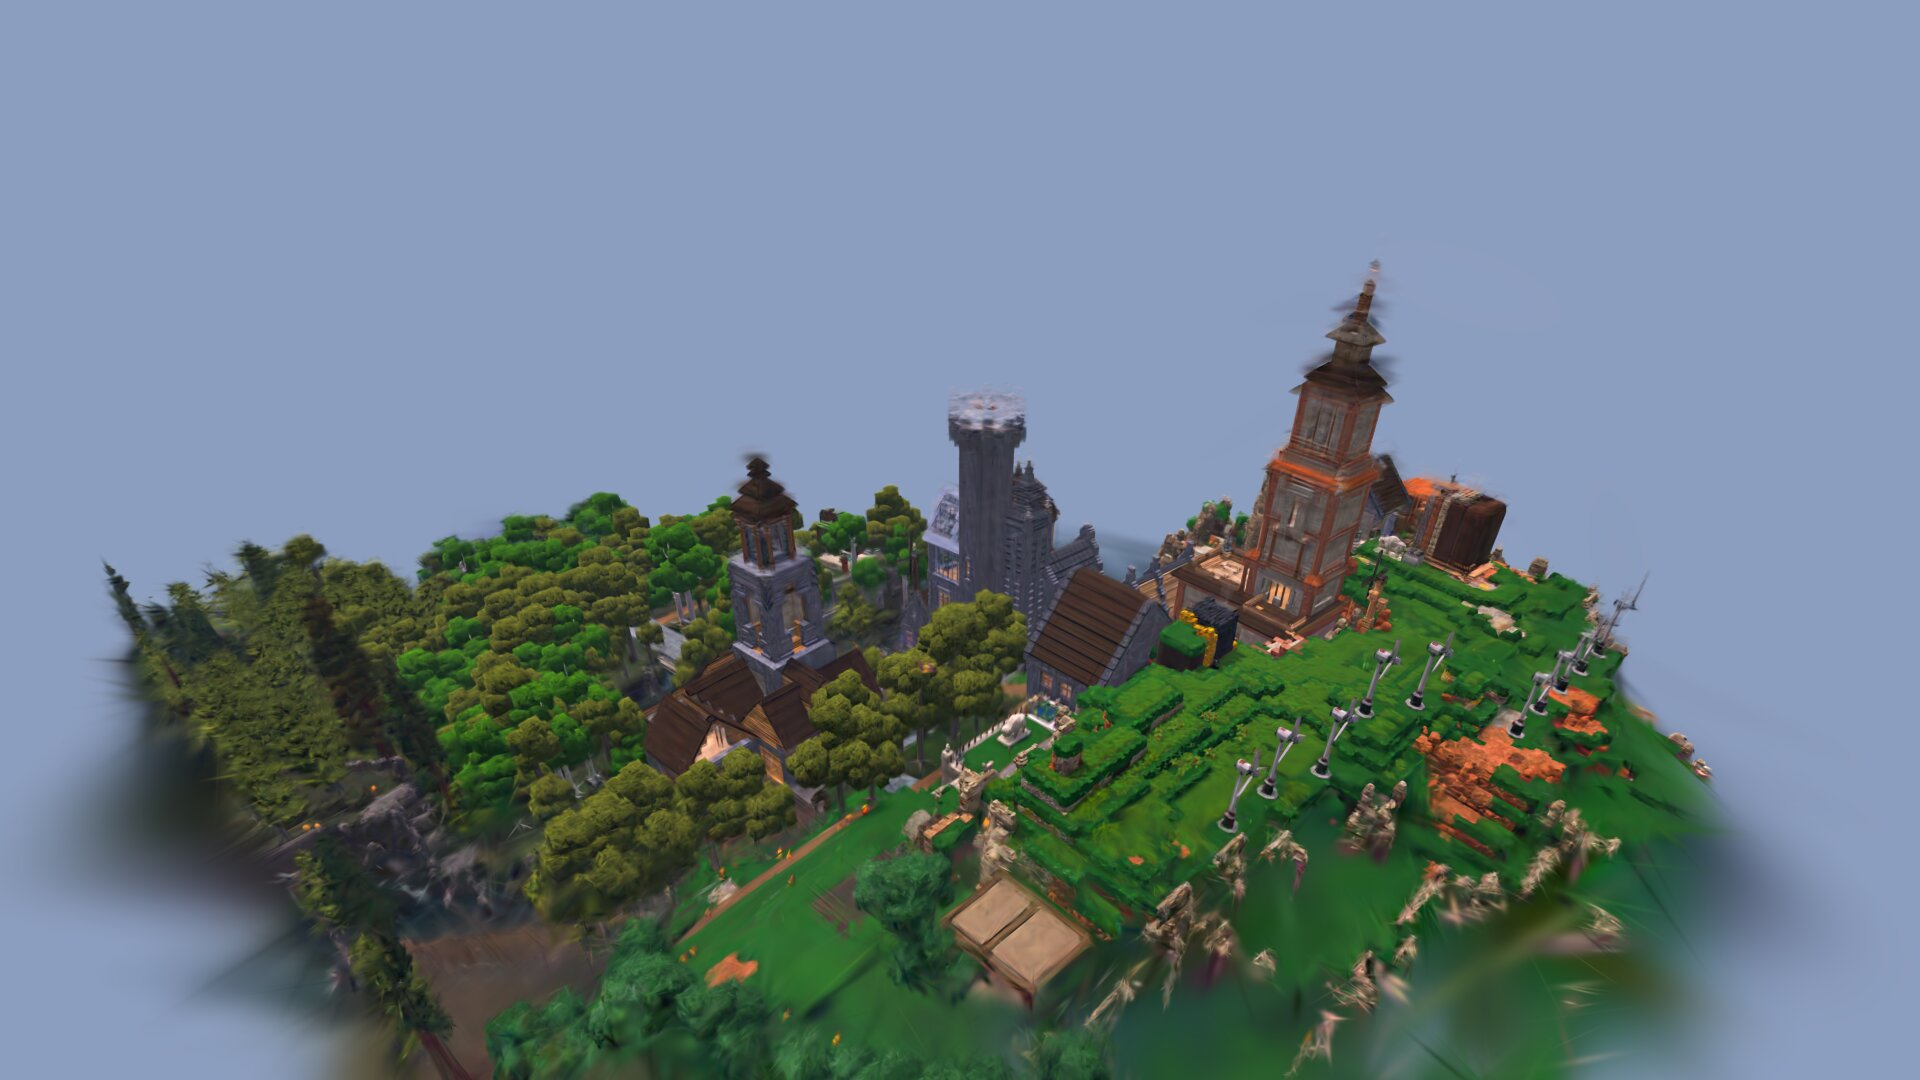
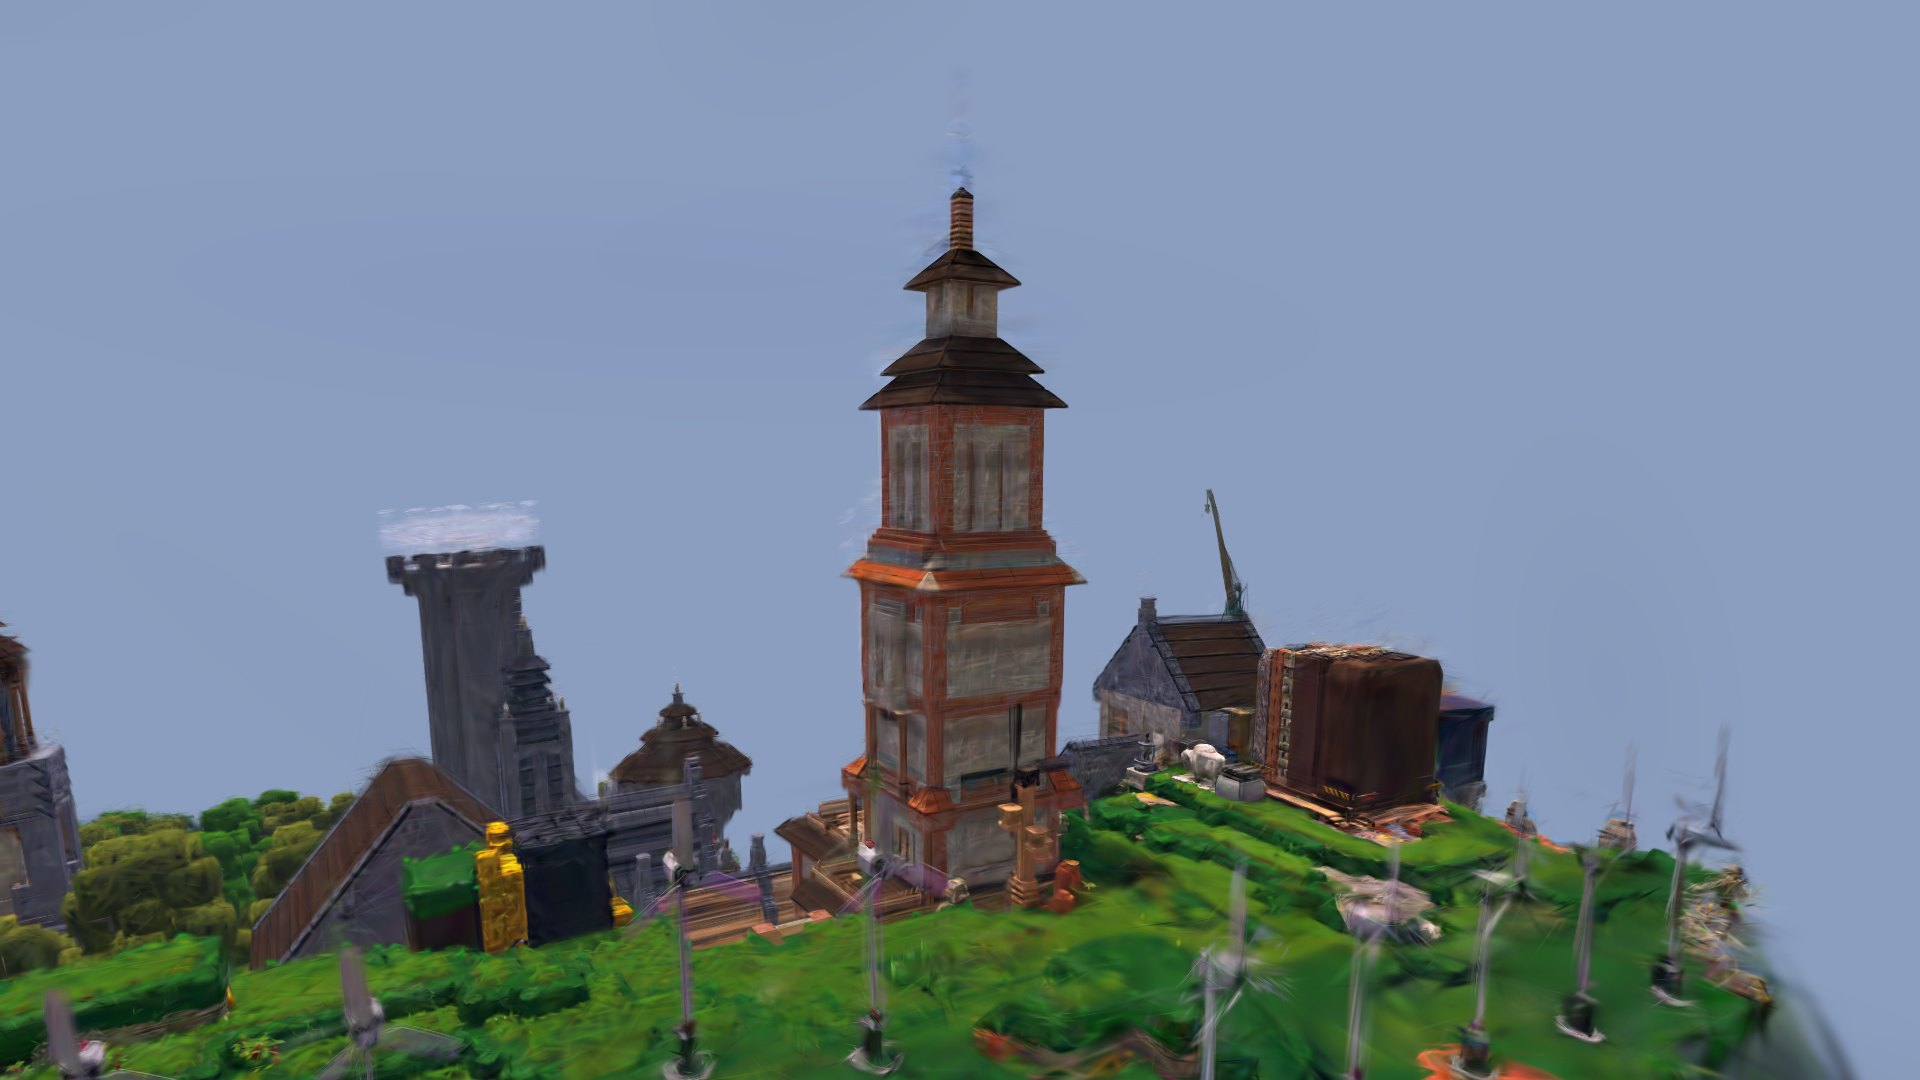
feat(frontend): open the castle on its tallest tower, upright and fully in view (COI-2248) (#425)

diff --git a/frontend/src/lib/splatViewer.ts b/frontend/src/lib/splatViewer.ts
@@ -21,16 +21,25 @@ export interface ViewSpec {
   fov: number
   distanceRange: [number, number]
   farClip: number
+  /**
+   * A capture arrives a few degrees off true up, since the reconstruction picks its own
+   * frame. This turns it about a horizontal `axis` through the origin by `degrees`, so a
+   * vertical build reads vertical. Measured per capture, by triangulating a tower's axis.
+   */
+  level?: { axis: [number, number, number]; degrees: number }
 }
 
-// The castle is about 150 blocks across.
+// The castle is about 150 blocks across. It opens on its tallest tower (COI-2248), the
+// clock tower, centred and 62 blocks away at a 3 degree rise, from the south-south-east.
+// The tower leaned 4.8 degrees in the capture, so `level` stands it up.
 export const CASTLE_VIEW: ViewSpec = {
   name: "castle",
-  target: [0, 10, 0],
-  reference: [90, 70, -90],
+  target: [-21.9, 27, -32.5],
+  reference: [9.1, 30.2, -86.1],
   fov: 50,
   distanceRange: [15, 400],
   farClip: 2000,
+  level: { axis: [0.7, 0, -0.71], degrees: 4.84 },
 }
 
 const ORBIT_SPEED = 0.15 // radians per second
@@ -93,6 +102,11 @@ export async function startViewer(
     const splat = new pc.Entity(view.name)
     // 3DGS is y-down, so a capture arrives upside down without this turn. v2 is y-down too.
     splat.setLocalEulerAngles(0, 0, 180)
+    if (view.level) {
+      const [x, y, z] = view.level.axis
+      // The tilt is about a world axis, so it goes on after the flip.
+      splat.setLocalRotation(new pc.Quat().setFromAxisAngle(new pc.Vec3(x, y, z).normalize(), view.level.degrees).mul(splat.getLocalRotation()))
+    }
     splat.addComponent("gsplat", { asset })
     app.root.addChild(splat)
   } catch (error) {

diff --git a/docs/frontend/castle-splat.md b/docs/frontend/castle-splat.md
@@ -20,8 +20,9 @@ Not in this repo, which caps files at 2 MB. They are on the files host, under
 * `eco-cycle-14-castle-flythrough-1.mp4` (55 s, 27 MB) and `-2.mp4` (30 s, 25 MB),
   each with a `-poster.jpg` beside it (`teable:coilyco/infrastructure#8605`).
 
-The still on the stage, `frontend/src/assets/castle-v2-hero.jpg` (1920x1080, 177 KB),
-is in the repo. So is the link-preview card art, `og-art/castle.jpg`.
+The still on the stage, `frontend/src/assets/castle-v2-hero.jpg` (1920x1080, 154 KB),
+is in the repo, rendered from the page's own start view, so the handoff to the live
+view does not jump. So is the link-preview card art, `og-art/castle.jpg`.
 
 ## What a person sees
 
@@ -46,8 +47,19 @@ is in the repo. So is the link-preview card art, `og-art/castle.jpg`.
 * **The splat is turned 180 degrees about Z.** 3DGS is y-down, so a capture arrives
   upside down without it. v2 is y-down too, and was checked in a browser.
 * **The camera is in blocks.** v2 is about 150 Eco blocks across (v1 was about 10
-  arbitrary units), so the start camera, zoom range and clip planes are in blocks:
-  start at `[90, 70, -90]` looking at `[0, 10, 0]`, fov 50, the reference viewer's.
+  arbitrary units), so the start camera, zoom range and clip planes are in blocks.
+* **It opens on the clock tower, upright** (COI-2248). The tallest tower is the
+  rust-brick one with the pagoda roof, about 36 blocks from base to spire. The view
+  looks at its middle, `[-21.9, 27, -32.5]`, from 62 blocks away at a 3 degree rise,
+  with fov 50, so it shows spire to base. The orbit and zoom pivot on it too, and
+  Reset view returns to it. The reference viewer's old start was `[90, 70, -90]`
+  looking at `[0, 10, 0]`.
+* **The capture is levelled.** The reconstruction left the tower 4.8 degrees off
+  vertical, which no camera can undo, because a vertical line leans by the same
+  angle from every side. `level` in the view spec turns the splat that much about a
+  horizontal axis (`[0.7, 0, -0.71]`), measured by triangulating the spire and the
+  tower's belt from two views, which then agree to 0.01 degrees. The windmills and
+  walls stand straight with it. A new capture needs its own measurement.
 * **`RESOLUTION_AUTO`, no resize observer.** The engine resizes its pixel buffer
   only in that mode, and then follows the canvas's CSS size every frame.
 * **Start of the engine is deferred a tick.** React's dev double-mount otherwise
